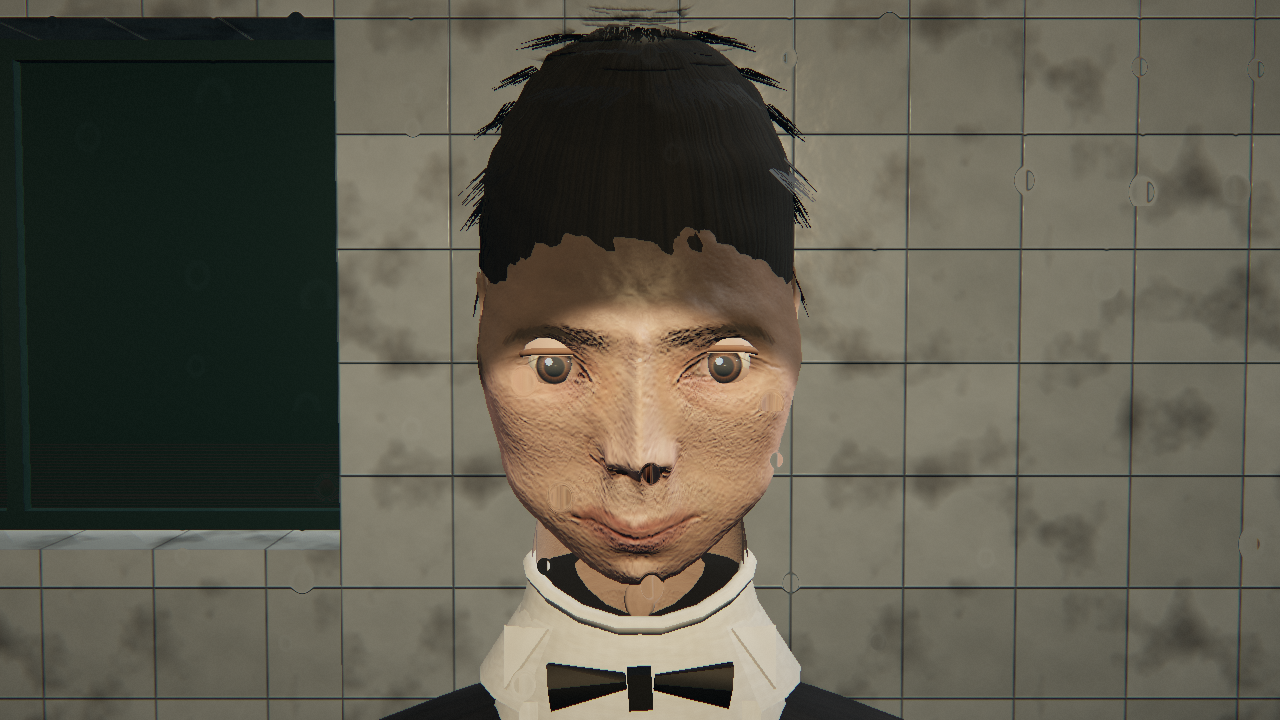
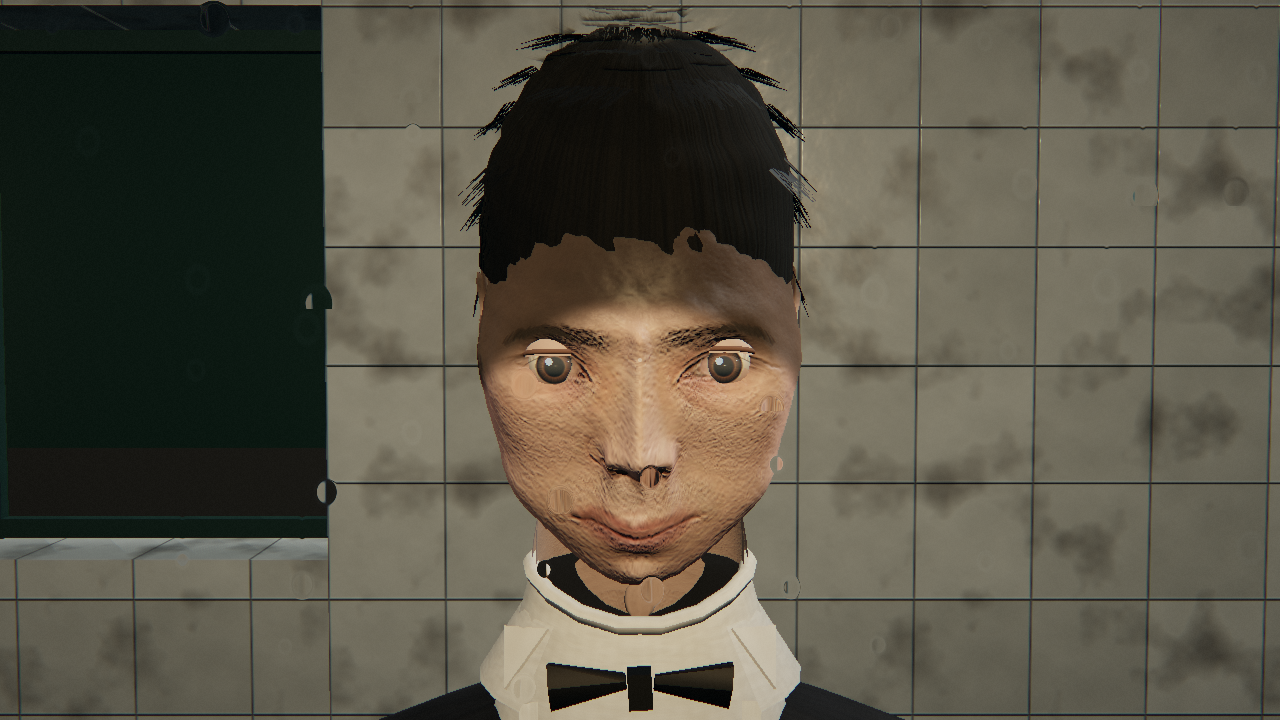
轮24七稿·单片眼镜终章:射线定凶(临时命名眼区网格逐层比对)——伪影像素左眼命中序=角膜(掠射,早虹膜2.8mm)→虹膜→巩膜→下睑,右眼对照点不打角膜;真因=idle收敛后头部仍带~15°躯干残余偏转,远侧眼落进极掠射视角,虹膜冠近缘越过地平线被背面剔除露出一指宽暖光巩膜柱,被限缘环框成单片眼镜(刀锋视角条件,近侧眼永远正常的原因);三刀:①r24机位改沿头部世界四元数取位——正对脸两眼近正视,与镜头对视本来就是0.6m人像验收标准;②虹膜材质DoubleSide——冠缘背面以暗虹膜色补缝,任何掠射角不再露巩膜;③虹膜画布先铺不透明暗底(旧盘外全透明,冠最外1.5%采透明像素=露亮巩膜帮凶

diff --git a/src/entities/humanoid.js b/src/entities/humanoid.js
@@ -39,6 +39,10 @@ function irisTexture(base = 0x5a3a22) {
   const x = c.getContext('2d');
   const cxy = S / 2, R = S * 0.485;
   const br = (base >> 16) & 255, bg = (base >> 8) & 255, bb = base & 255;
+  // 轮24七稿：整幅先铺不透明暗底——旧画布盘外全透明，虹膜冠最外 1.5% 采到
+  // 透明像素=掠射角下露出一线亮巩膜（「单片眼镜」帮凶之一）
+  x.fillStyle = 'rgb(14,10,7)';
+  x.fillRect(0, 0, S, S);
   // 底：虹膜体径向渐变（瞳缘略亮的琥珀内圈 → 主色 → 限缘前变深）
   const g0 = x.createRadialGradient(cxy, cxy, S * 0.1, cxy, cxy, R);
   g0.addColorStop(0, `rgb(${Math.min(255, br + 30)},${Math.min(255, bg + 20)},${bb + 6})`);
@@ -2185,6 +2189,10 @@ export class Humanoid {
       // 虹膜盘是正对相机的平面：镜面反射一大就整盘糊白（白珠眼回魂）——
       // 湿光交给角膜壳与捕捉光点，虹膜自己只出「色」
       depthWrite: false,
+      // 轮24七稿·单片眼镜根治：极掠射视角下虹膜冠近缘越过「地平线」被背面剔除，
+      // 露出一指宽的暖光巩膜柱（限缘环框成「单片眼镜」）；双面渲染让冠缘背面
+      // 以暗虹膜色补上这条缝
+      side: THREE.DoubleSide,
     })).clone();
     if (ghost) this.eyeMat.opacity = 0.5;
     const eyeG = G('eyeball', () => new THREE.SphereGeometry(0.0125, 14, 11));

diff --git a/src/main.js b/src/main.js
@@ -524,9 +524,9 @@ function loop() {
 }
 loop();
 
-// 供无头验证注入
+// 供无头验证注入（THREE：取证脚本射线定凶/几何巡检用）
 window.__game = {
   engine, player, world, ocean, sky, input, enemies, byId, dog, birds, watchers,
-  floaters, gaze, guest, crt, agenda, M,
+  floaters, gaze, guest, crt, agenda, M, THREE,
   sightjack, stealth, tools, power, story, hud, audio, game,
 };
